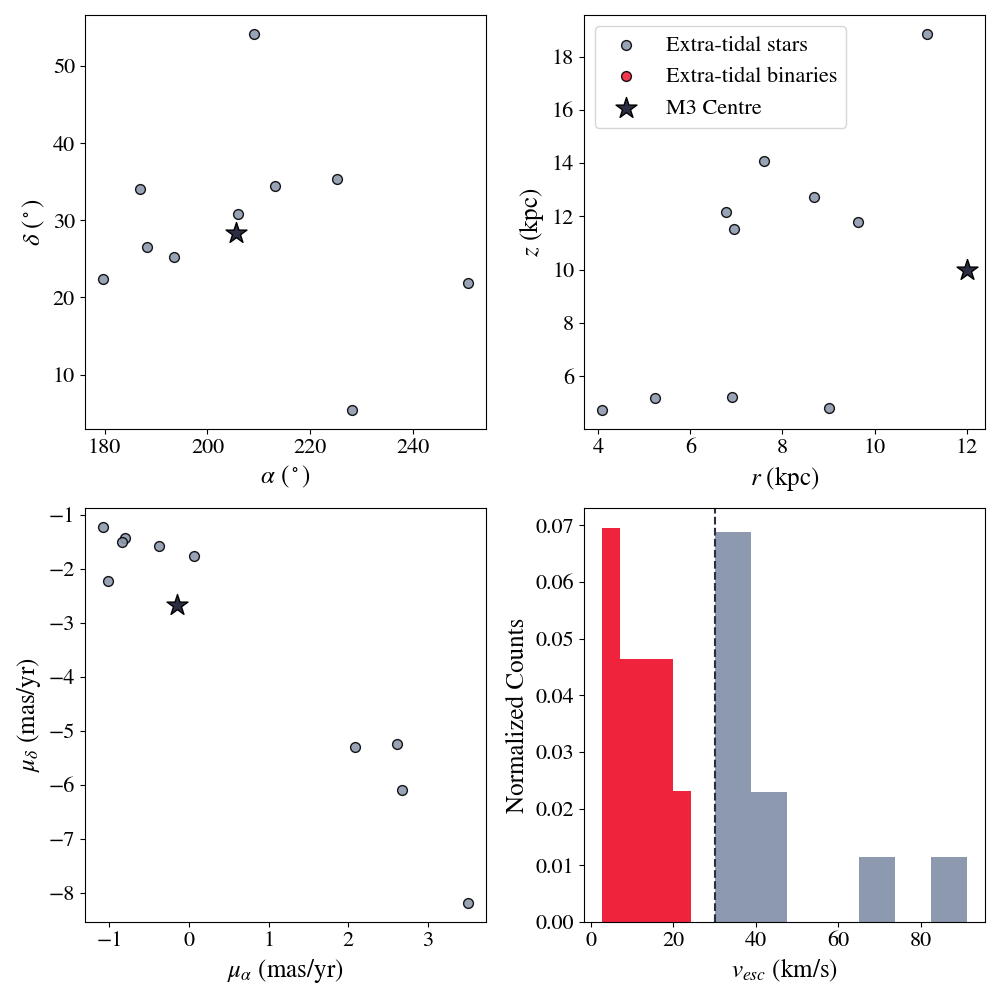
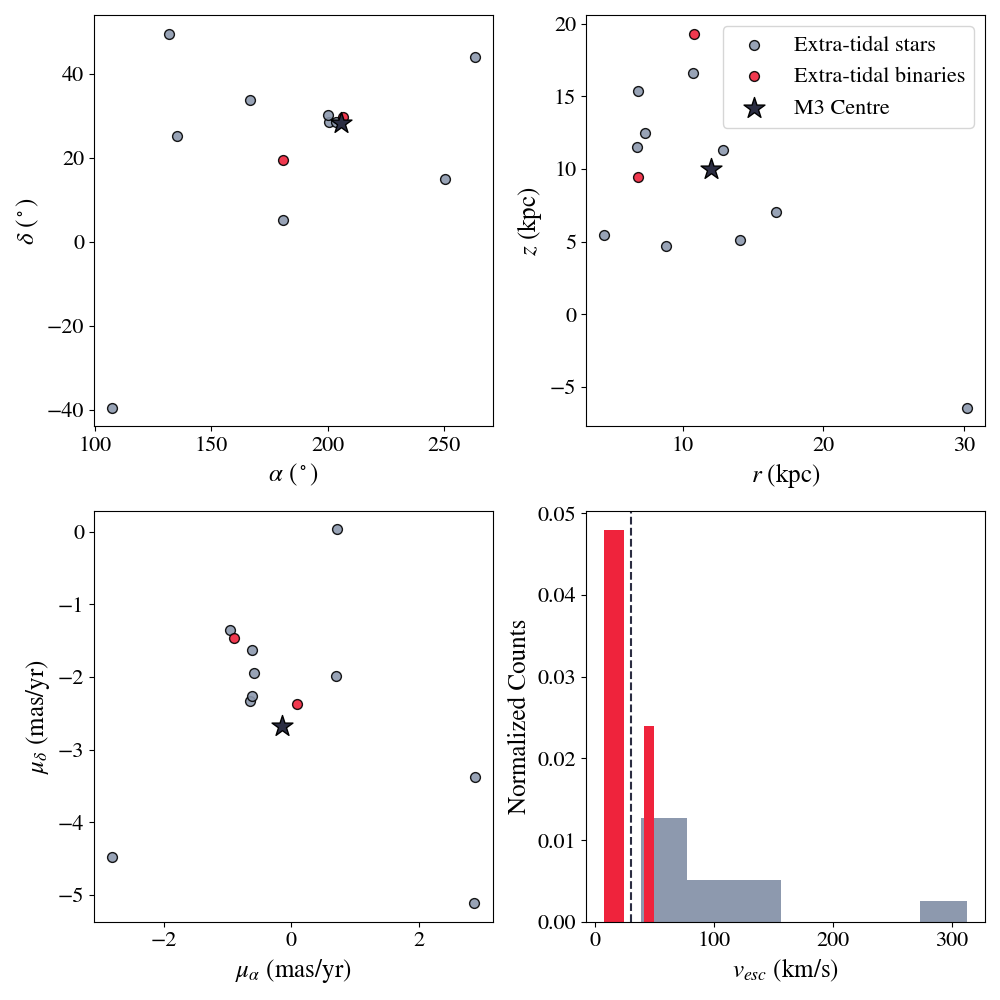
created new tutorial version for modified M3, added plot for modified M3 tutorial test

diff --git a/group_folders/Ritik's files/corespray tutorial (modified M3 parameters).py b/group_folders/Ritik's files/corespray tutorial (modified M3 parameters).py
@@ -19,31 +19,35 @@ plt.rcParams['font.family'] = 'STIXGeneral'
 
 # load in parameters for M3
 gcname = 'M3'  # GC name
-mu0 = 0.  # Average 1D velocity in the core [km/s]
-sig0 = 7.6  # Central 1D velocity dispersion [km/s]
-vesc0 = 30.0  # Central escape velocity [km/s]
-logrho0 = 3.67  # Log of central density [Msol / pc^3]
-rho0 = 10.0**3.67  # Core density [Msol / pc^3]
-mgc = 4.06e5  # Mass [solar masses]
-rgc = 127.28  # Tidal radius of GC, assuming King potential [pc]
-rcore = 1.23  # Core radius of GC [pc]
+mu0 = 1.  # Average 1D velocity in the core [km/s] (changed 0. -> 1.)
+sig0 = 70.6  # Central 1D velocity dispersion [km/s] (changed 7.6 -> 70.6)
+vesc0 = 60.0  # Central escape velocity [km/s] (changed 30.0 -> 60.0)
+logrho0 = 9.67  # Log of central density [Msol / pc^3] (changed 3.67 -> 9.67)
+rho0 = 20.0**9.67  # Core density [Msol / pc^3]
+# (changed 10.0 -> 20.0, 3.67 -> 9.67)
+mgc = 5.06e5  # Mass [solar masses] (changed 4.06e5 -> 5.06e5)
+rgc = 147.28  # Tidal radius of GC, assuming King potential [pc]
+# (changed 127.28 -> 147.28)
+rcore = 1.23  # Core radius of GC [pc] (changed 1.23 -> 10.23)
 W0 = 8.61469762517307
 
-mmin = 0.1  # Minimum stellar mass in core [Msol]
-mmax = 1.4  # Maximum stellar mass in the core [Msol]
-alpha = -1.35  # Stellar mass function in the core slope (Salpeter 1955)
+mmin = 1  # Minimum stellar mass in core [Msol] (changed 0.1 -> 1)
+mmax = 2.4  # Maximum stellar mass in the core [Msol] (changed 1.4 -> 2.4)
+alpha = -2.35  # Stellar mass function in the core slope (Salpeter 1955)
+# (changed -1.35 -> -2.35)
 
 potential = MWPotential2014  # Galactic potential model
-ro = 8.  # radius of the solar circle (needed for galpy)
-vo = 220.  # circular orbit velocity at the solar circle (needed for galpy)
+ro = 10.  # radius of the solar circle (needed for galpy) (changed 8. -> 10.)
+vo = 240.  # circular orbit velocity at the solar circle (needed for galpy)
+# (changed 220. -> 240.)
 
 # initialize cluster orbit in galpy
 os_init = Orbit.from_name(gcname, ro=ro, vo=vo, solarmotion=[-11.1, 24.0, 7.25])
 
 # integrating cluster orbit
-ts = np.linspace(0,10,1000)  # integration times
+ts = np.linspace(0, 10, 1000)  # integration times
 os_init.integrate(ts, potential)  \
-    # can choose which Galactic potential to use (e.g. MWPotenial2014)
+    # can choose which Galactic potential to use (e.g. MWPotential2014)
 
 # find maximum orbital period for cluster
 p_orb_rad = os_init.Tr()
@@ -142,7 +146,7 @@ ax[1, 1].set_xlabel(r"$v_{esc}$ (km/s)", fontsize=18)
 ax[1, 1].set_ylabel("Normalized Counts", fontsize=18)
 
 fig.tight_layout()
-plt.savefig("Ritik's M3 plot.png")
+plt.savefig("Ritik's M3 plot (modified parameters).png")
 plt.show()
 
 
